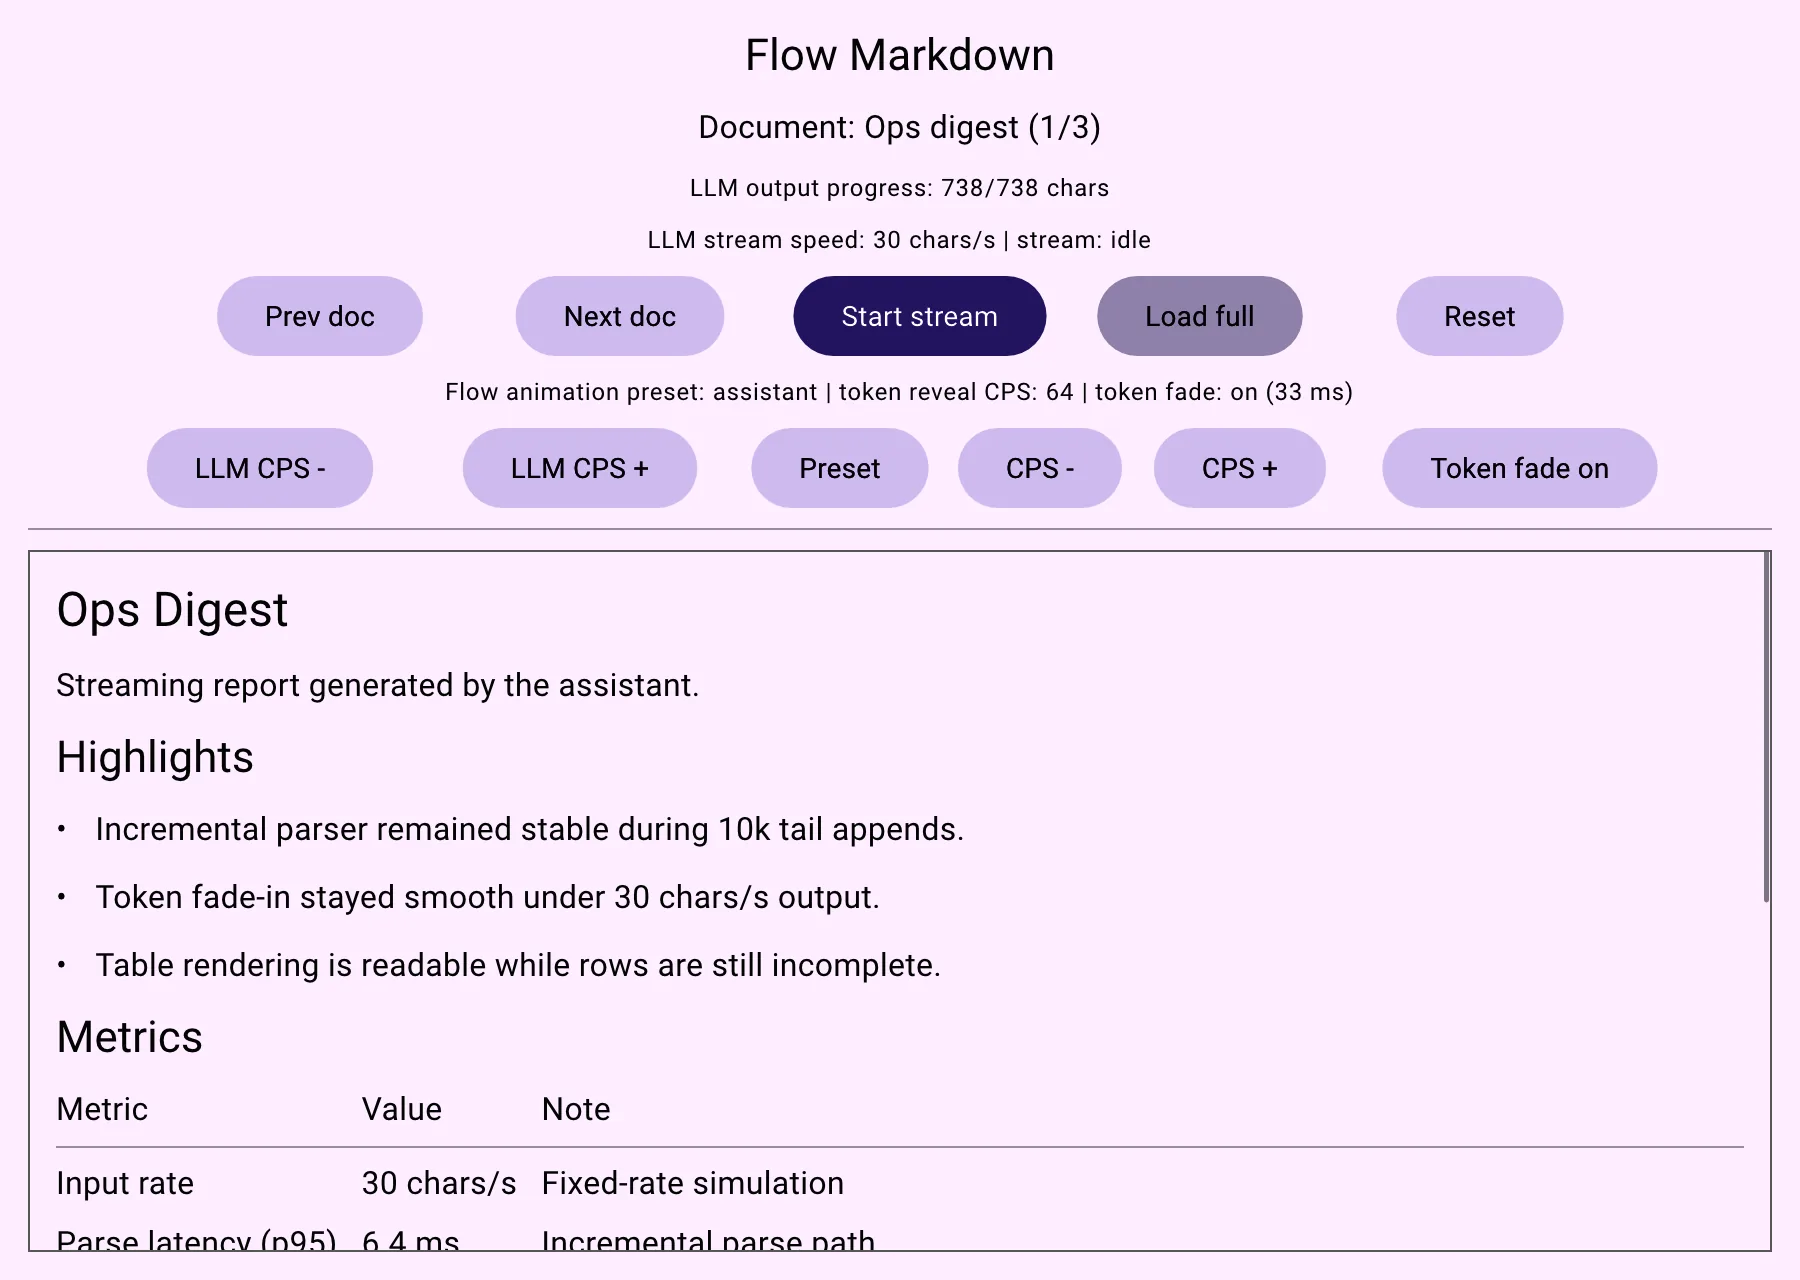
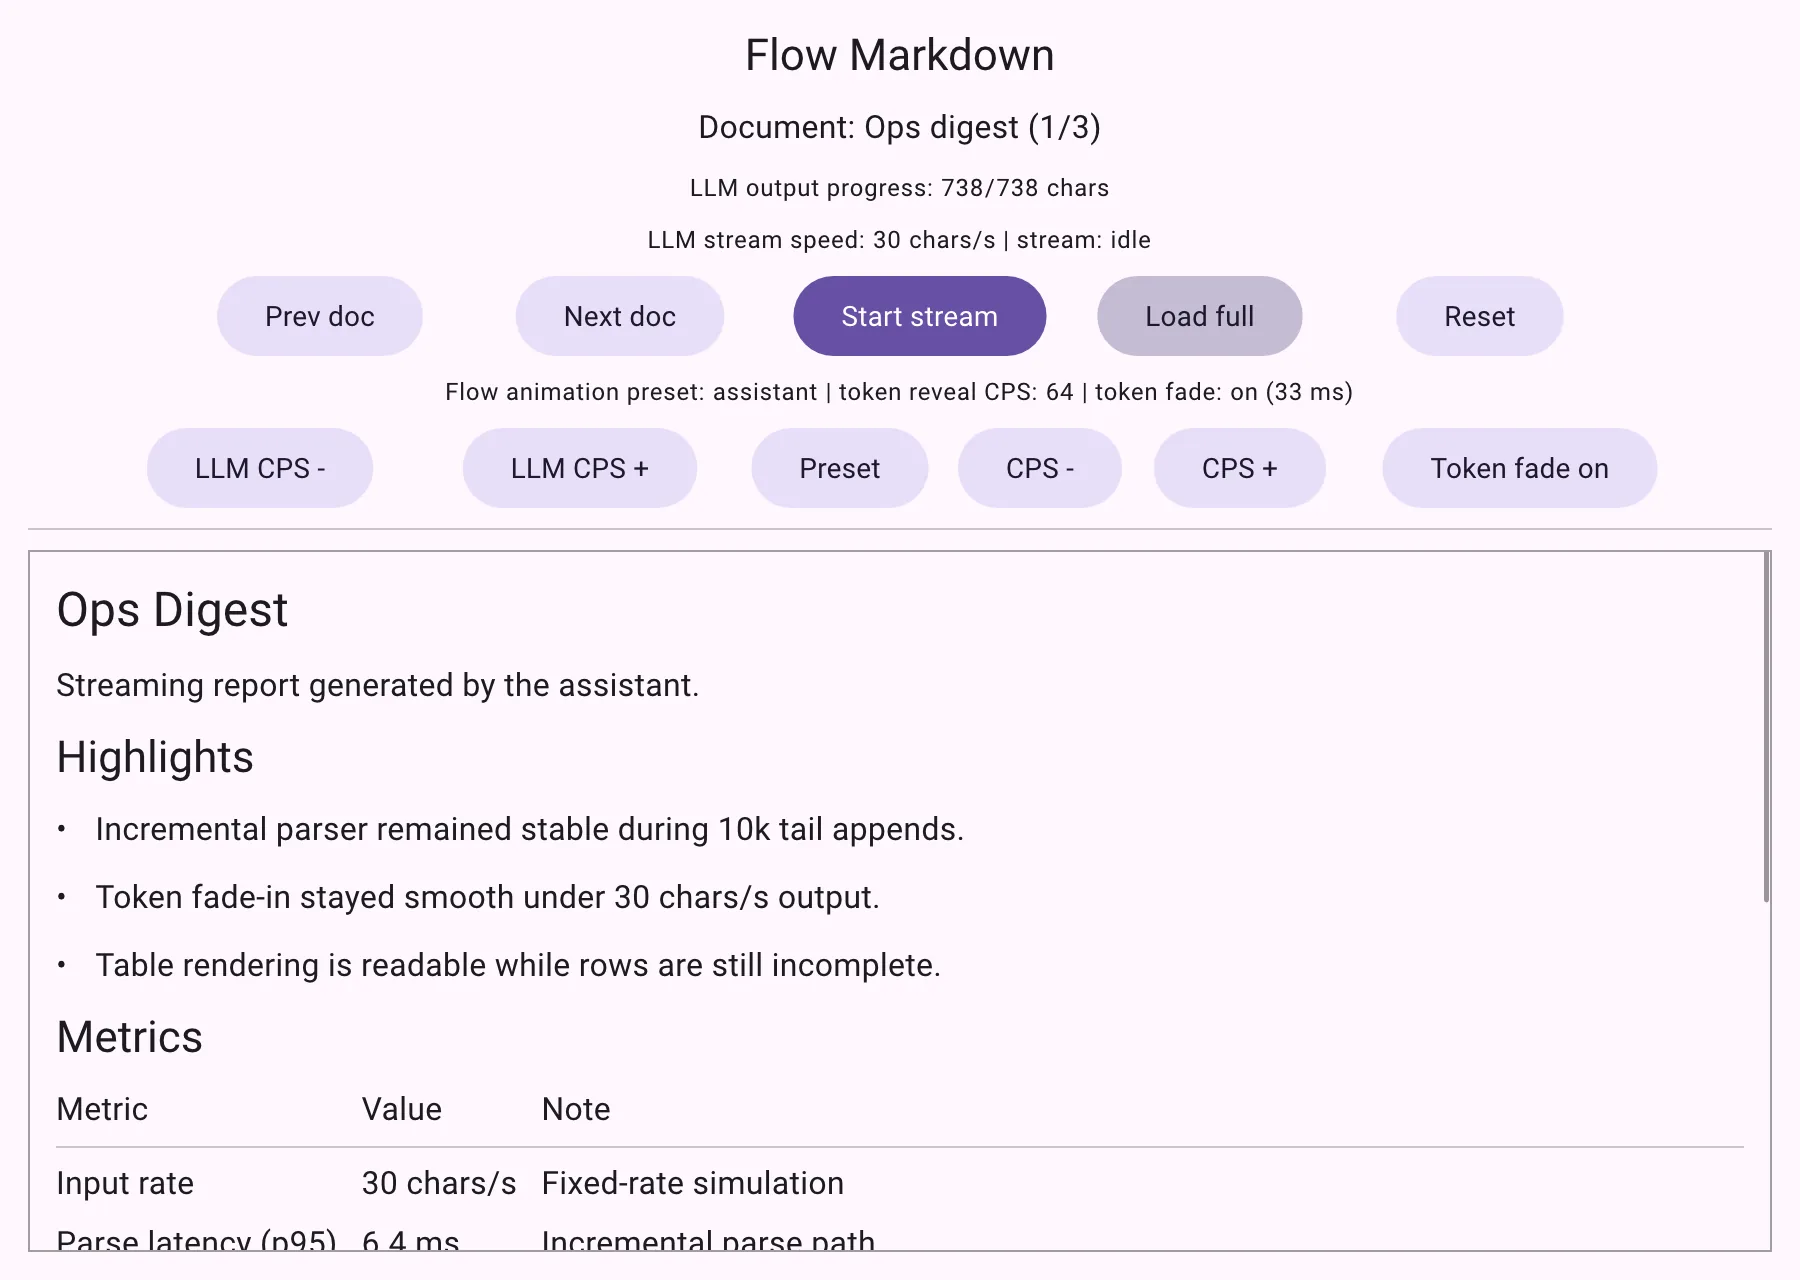
Regenerate example screenshots with correct colour
Every screenshot was rendered through hydrolysis before
water-rs/waterui#244, when the renderer emitted every colour as
srgb_to_linear of itself. The M3 surface the examples sit on came out
as #FDEDFF instead of #FEF7FF — a faint lilac cast on every page — and
every mid-tone was off by the same non-linear amount.

All seven are re-rendered from the fixed renderer with the same theme
(material3), frame (900x640) and encoding (cwebp -q 82 -m 6). The
remaining tint is Material 3's own baseline surface, which is #FEF7FF by
specification.

The recipe in scripts/README.md was wrong for video_player: its preview
function is video_player_preview, not demo, and the documented command
fails at link time. Fixed, and the flow_markdown scenario that the README
only described is now committed as scripts/flow_markdown.scenario.toml.

diff --git a/scripts/README.md b/scripts/README.md
@@ -14,7 +14,8 @@ target/release/water preview demo --backend hydrolysis --theme material3 --frame
   --path examples/<name> --output <name>.png
 ```
 
-Two examples need a variant:
+Three examples need a variant:
 
 - `filter` has no representative `#[preview]`, so render its `demo()` as an expression: `water preview --expr "demo()" ...`.
-- `flow_markdown` starts on an empty document; drive it with `--scenario` (a click on "Load full", capture at 1500 ms) and take `frame-1500ms.png` from `--output-dir`.
+- `video_player`'s preview is named `video_player_preview`, not `demo`: `water preview video_player_preview ...`. Asking for `demo` fails at link time with an undefined `_waterui_preview_video_player_example_demo`.
+- `flow_markdown` starts on an empty document; drive it with `--scenario` (a click on "Load full", capture at 1500 ms) and take `frame-1500ms.png` from `--output-dir`. A working scenario file is `scripts/flow_markdown.scenario.toml`.
